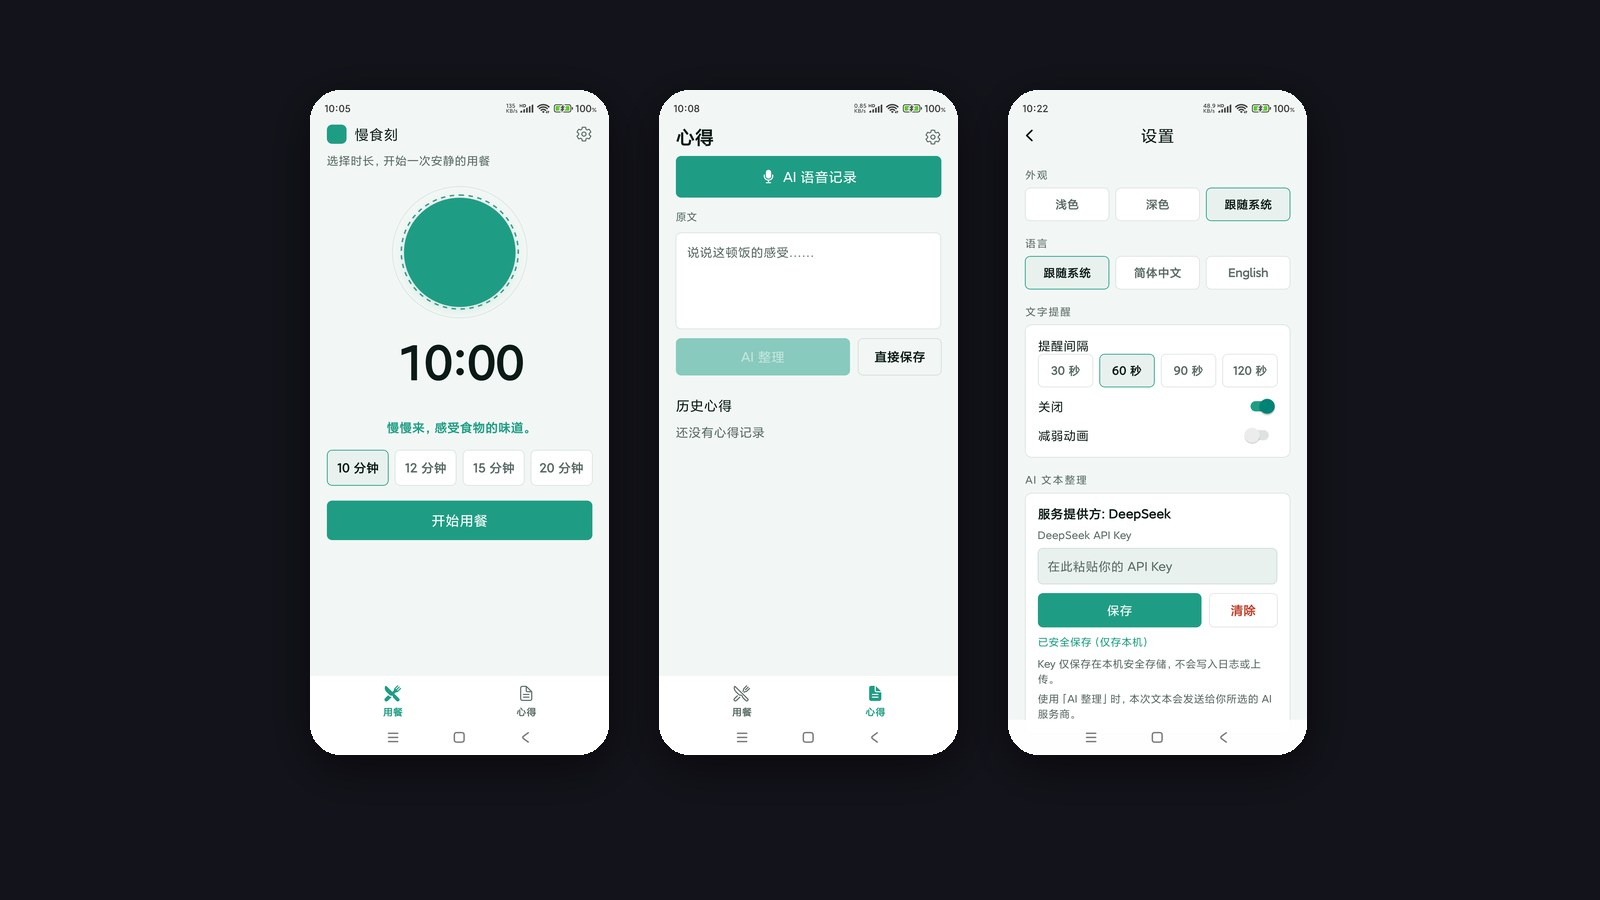
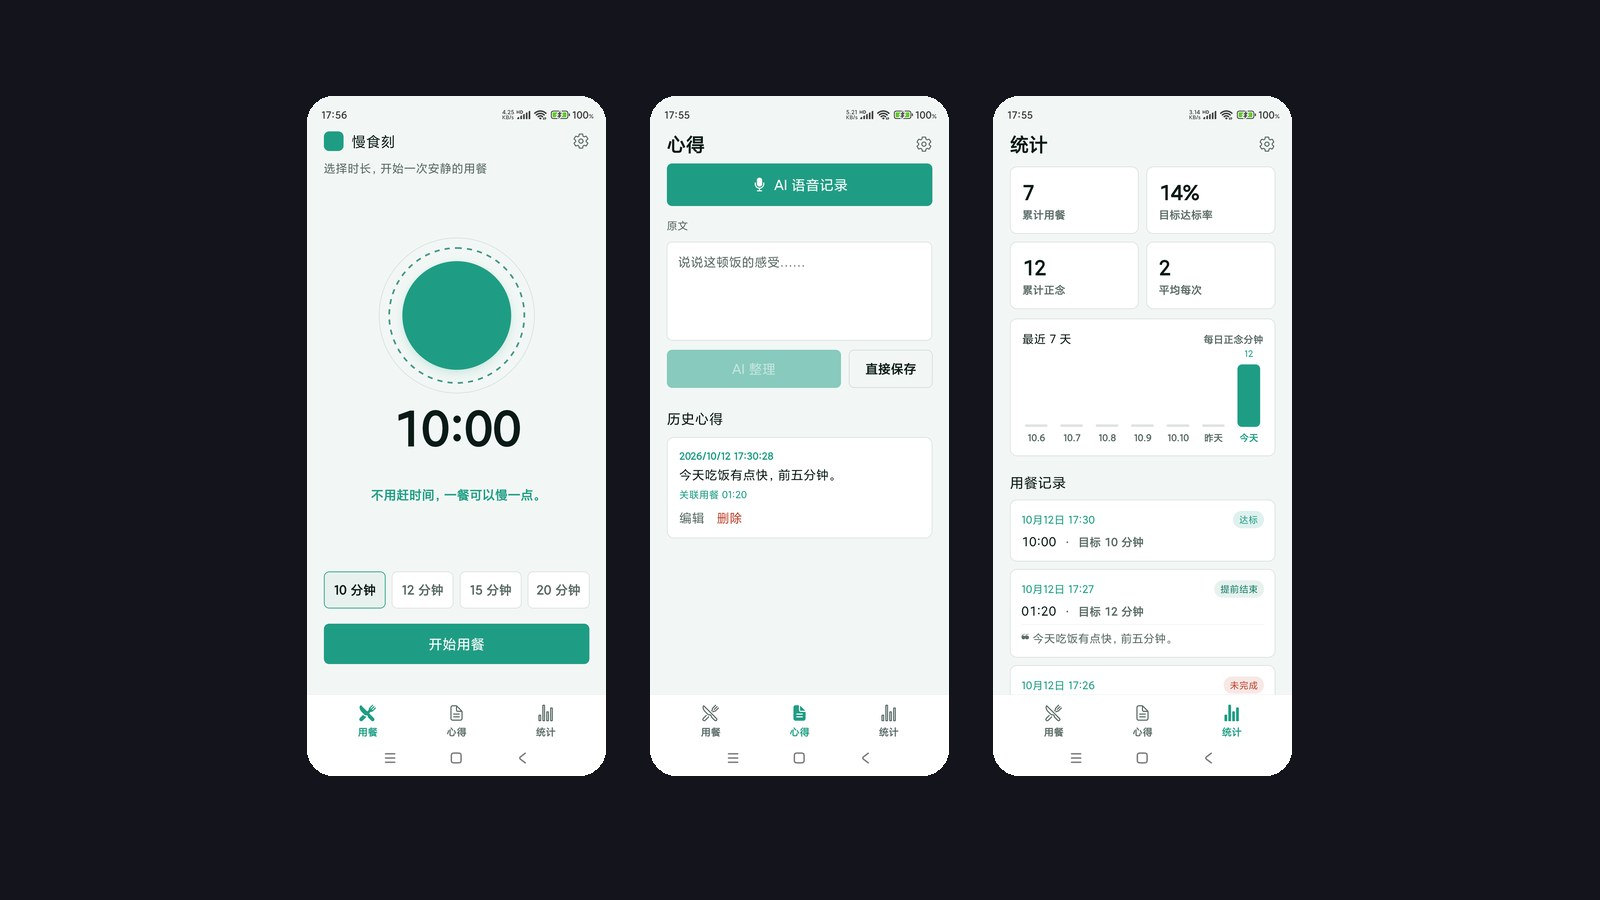
docs(projects): 慢食刻条目同步用餐历史与统计实况（文案＋封面）
封面与仓库 README hero 同源重建为三 Tab 版（用餐/心得/统计）；
中英文案补上本机聚合的用餐历史与统计；测试钉桩补入该条路由与静态目录。

Changed region(s): [[0.4062, 0.0933, 0.8438, 0.8711], [0.1875, 0.0933, 0.375, 0.8711]]

diff --git a/app/content.ts b/app/content.ts
@@ -1117,7 +1117,7 @@ export const projects: Project[] = [
     year: "2026",
     category: "mobile",
     summary:
-      "吃饭太快的人用它慢下来：光球计时全程静音，一句句慢食提示只显示不响铃；饭后说两句心得，AI 只去掉口水词，记录全部留在手机里。",
+      "吃饭太快的人用它慢下来：光球计时全程静音，慢食提示只显示不响铃；饭后说两句心得，AI 只去口水词；每顿饭自动留档，统计页摊开累计餐数与达标率，数据全留在本机。",
     cover: "/projects/bitetempo.jpg",
     tags: ["Android", "Expo / React Native", "静音计时", "离线本机数据"],
     role: "独立设计与开发",
@@ -1126,9 +1126,9 @@ export const projects: Project[] = [
     challenge:
       "计时要扛住锁屏和切后台不跑偏；部分小米机型的系统语音识别拿不到结果，得能退回键盘语音或手动输入且不丢内容；AI 只能去口水词，不能改意思、不能加建议。",
     solution:
-      "Expo / React Native 实现，计时用单调时钟加挂钟校正的状态机，锁屏回来按真实时间恢复；提醒只显示文字、不出声音；心得支持语音或手输，AI 整理走统一接口接 DeepSeek，原文与整理稿对照确认后才保存，Key 只存在手机安全存储里；数据全部存本机 SQLite，无账号、无云同步。",
+      "Expo / React Native 实现，计时用单调时钟加挂钟校正的状态机，锁屏回来按真实时间恢复；提醒只显示文字、不出声音；心得支持语音或手输，AI 整理走统一接口接 DeepSeek，原文与整理稿对照确认后才保存，Key 只存在手机安全存储里；数据全部存本机 SQLite，无账号、无云同步；用餐记录与统计同样在本机聚合，按本地时区分组、避开跨日界线的错算。",
     outcome:
-      "已发 GitHub Release v1.0.0 并挂可直接下载的通用 APK（Android 7.0+，debug 签名）；中英双语、主题三态，两台真机跑通并留有逐项截图证据。",
+      "已发 GitHub Release v1.0.0 并挂可直接下载的通用 APK（Android 7.0+，debug 签名，对应首发版本）；随后的用餐历史与统计可从源码构建；中英双语、主题三态，两台真机跑通并留有逐项截图证据。",
     gallery: [],
     releaseUrl:
       "https://github.com/wanghoufan/p047-mindful-eating/releases/tag/v1.0.0",

diff --git a/app/i18n.detail.ts b/app/i18n.detail.ts
@@ -380,9 +380,9 @@ export const projectDetailEn: Record<string, ProjectDetailEn> = {
     challenge:
       "The timer has to survive lock screens and backgrounding without drifting; on some Xiaomi devices the system speech engine never returns a result, so the flow must fall back to keyboard dictation or typing without losing content; and the AI may only strip filler words — never change the meaning or add advice.",
     solution:
-      "Built with Expo and React Native. The countdown is a monotonic-clock state machine with wall-clock correction, so a locked phone resumes from real elapsed time; reminders are text-only and never audible. Notes can be dictated or typed, polished through a single provider interface backed by DeepSeek, compared side by side and confirmed before saving; the key lives in the device secure store and all data stays in local SQLite — no account, no cloud.",
+      "Built with Expo and React Native. The countdown is a monotonic-clock state machine with wall-clock correction, so a locked phone resumes from real elapsed time; reminders are text-only and never audible. Notes can be dictated or typed, polished through a single provider interface backed by DeepSeek, compared side by side and confirmed before saving; the key lives in the device secure store and all data stays in local SQLite — no account, no cloud — and meal logs and stats are aggregated on-device by local date so day boundaries don't skew them.",
     outcome:
-      "GitHub Release v1.0.0 published with a directly downloadable universal APK (Android 7.0+, debug-signed); light/dark/system themes and Chinese-English UI, verified on two physical devices with per-item screenshot evidence.",
+      "GitHub Release v1.0.0 published with a directly downloadable universal APK (Android 7.0+, debug-signed, matching the first release); the meal history and stats added afterwards can be built from source; light/dark/system themes and Chinese-English UI, verified on two physical devices with per-item screenshot evidence.",
     tags: ["Android", "Expo / React Native", "Silent timer", "Offline on-device data"],
   },
   "curated-skills": {

diff --git a/app/i18n.ts b/app/i18n.ts
@@ -265,7 +265,7 @@ export const projectEn: Record<string, { title: string; summary: string }> = {
   "bitetempo": {
     title: "BiteTempo",
     summary:
-      "A quiet meal timer for people who eat too fast: the orb never makes a sound and the reminders are text-only; after the meal you dictate two lines and the AI only strips the filler words. Everything stays on the phone.",
+      "A quiet meal timer for people who eat too fast: the orb never makes a sound and the reminders are text-only; after the meal you dictate two lines and the AI only strips the filler words. Every meal is logged automatically, and a stats page lays out your total meals and hit rate — all on the phone.",
   },
   "curated-skills": {
     title: "Curated Skills",
